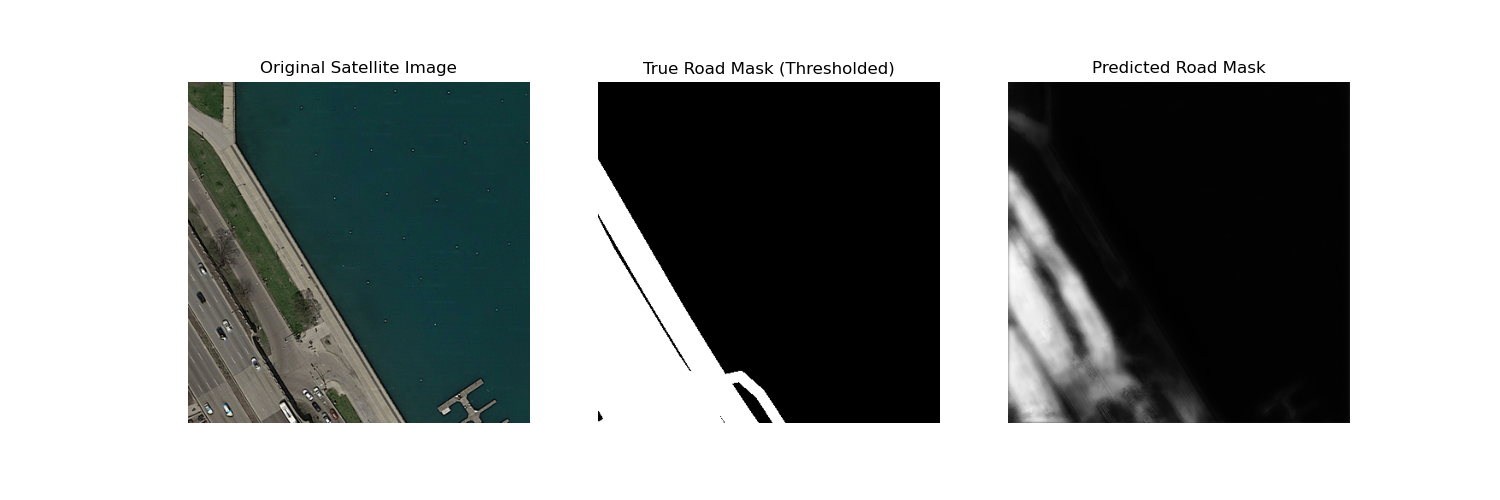
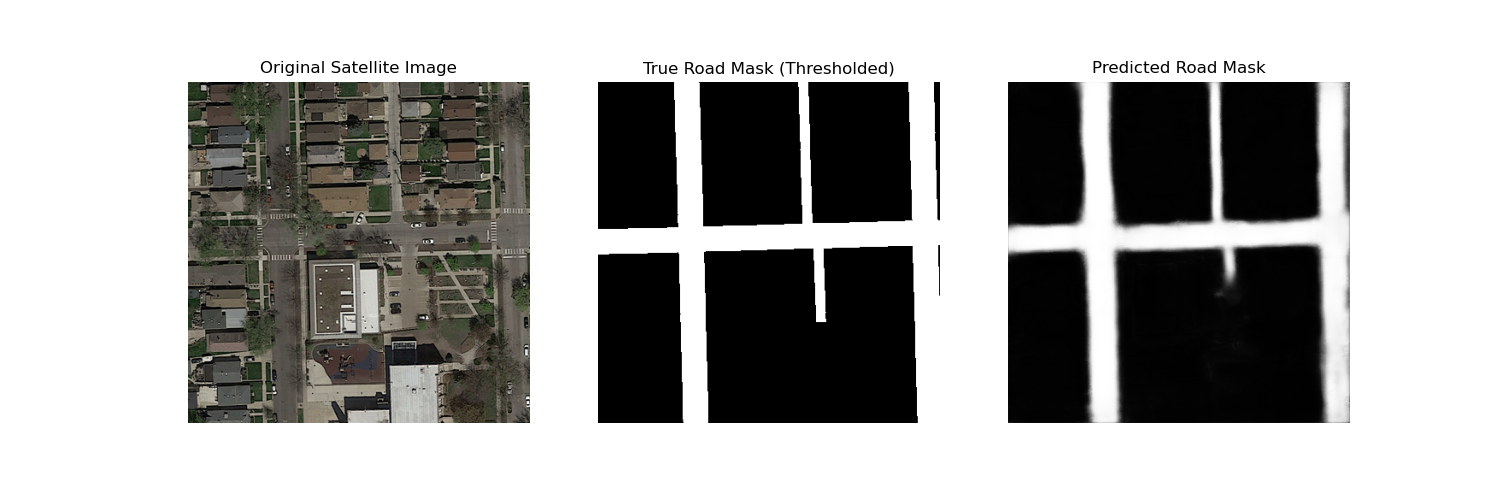
Added F1Score

Changed region(s): [[0.1227, 0.15, 0.368, 0.87], [0.6747, 0.15, 0.92, 0.87], [0.3987, 0.15, 0.644, 0.87]]

diff --git a/Harkeerat/UNet/train.py b/Harkeerat/UNet/train.py
@@ -14,6 +14,22 @@ from unetModel import build_unet
 from dataLoader import load_data, get_augmented_train_generator
 
 
+def dice_coef(y_true, y_pred):
+    """
+    Calculates the F1 Score (Dice Coefficient) for tracking.
+    """
+    smooth = 1.0
+    # Flatten the arrays
+    y_true_f = tf.reshape(y_true, [-1])
+    y_pred_f = tf.reshape(y_pred, [-1])
+
+    intersection = tf.reduce_sum(y_true_f * y_pred_f)
+    score = (2.0 * intersection + smooth) / (
+        tf.reduce_sum(y_true_f) + tf.reduce_sum(y_pred_f) + smooth
+    )
+    return score
+
+
 def train_model():
     print("--- Starting Training Pipeline ---")
 
@@ -23,6 +39,9 @@ def train_model():
     # 2. Setup Cross Validation
     kfold = KFold(n_splits=config.NUM_FOLDS, shuffle=True, random_state=42)
     fold_no = 1
+
+    # List to store F1 scores for each fold
+    f1_scores = []
 
     # 3. Training Loop
     for train_index, val_index in kfold.split(X):
@@ -41,13 +60,17 @@ def train_model():
         model.compile(
             optimizer=Adam(learning_rate=config.LEARNING_RATE),
             loss="binary_crossentropy",
-            metrics=["accuracy"],
+            metrics=["accuracy", dice_coef],
         )
 
         # Checkpoint: Save only the best model for this fold
         save_path = os.path.join(config.MODEL_SAVE_DIR, f"unet_fold_{fold_no}.keras")
         checkpoint = tf.keras.callbacks.ModelCheckpoint(
-            save_path, save_best_only=True, monitor="val_loss", mode="min", verbose=1
+            save_path,
+            save_best_only=True,
+            monitor="val_dice_coef",
+            mode="max",
+            verbose=1,
         )
 
         # Train
@@ -59,7 +82,19 @@ def train_model():
             callbacks=[checkpoint],
         )
 
+        # Evaluate the model on the validation set
+        val_metrics = model.evaluate(X_val, Y_val, verbose=0)
+        val_f1_score = val_metrics[2]  # Assuming dice_coef is the third metric
+        print(f"Fold {fold_no} F1 Score (Dice Coefficient): {val_f1_score:.4f}")
+        f1_scores.append(val_f1_score)
+
         fold_no += 1
+
+    # Calculate and print the average F1 score
+    avg_f1_score = sum(f1_scores) / len(f1_scores)
+    print(
+        f"\nAverage F1 Score (Dice Coefficient) across {config.NUM_FOLDS} folds: {avg_f1_score:.4f}"
+    )
 
 
 def train_full_model():
@@ -78,13 +113,13 @@ def train_full_model():
     model.compile(
         optimizer=Adam(learning_rate=config.LEARNING_RATE),
         loss="binary_crossentropy",
-        metrics=["accuracy"],
+        metrics=["accuracy", dice_coef],
     )
 
     # 4. Checkpoint (Saves the BEST model based on lowest loss)
     best_save_path = os.path.join(config.MODEL_SAVE_DIR, "unet_full_best.keras")
     checkpoint = tf.keras.callbacks.ModelCheckpoint(
-        best_save_path, save_best_only=True, monitor="loss", mode="min", verbose=1
+        best_save_path, save_best_only=True, monitor="dice_coef", mode="max", verbose=1
     )
 
     print(f"Training on {len(X)} images for {config.EPOCHS} epochs...")
@@ -96,6 +131,11 @@ def train_full_model():
         epochs=config.EPOCHS,
         callbacks=[checkpoint],
     )
+    
+    # Evaluate the model on the training set
+    train_metrics = model.evaluate(X, Y, verbose=0)
+    train_f1_score = train_metrics[2]  # Assuming dice_coef is the third metric
+    print(f"Full Training F1 Score (Dice Coefficient): {train_f1_score:.4f}")
 
     # 6. EXPLICITLY Save the Final Model (Last Epoch)
     final_save_path = os.path.join(config.MODEL_SAVE_DIR, "unet_full_final.keras")

diff --git a/Harkeerat/UNet/viz.py b/Harkeerat/UNet/viz.py
@@ -100,4 +100,4 @@ if __name__ == "__main__":
     model_file = os.path.join(config.MODEL_SAVE_DIR, "unet_full_best.keras")
 
     # Change index to see different images
-    visualize_prediction(model_file, image_index=90)
+    visualize_prediction(model_file, image_index=1)
